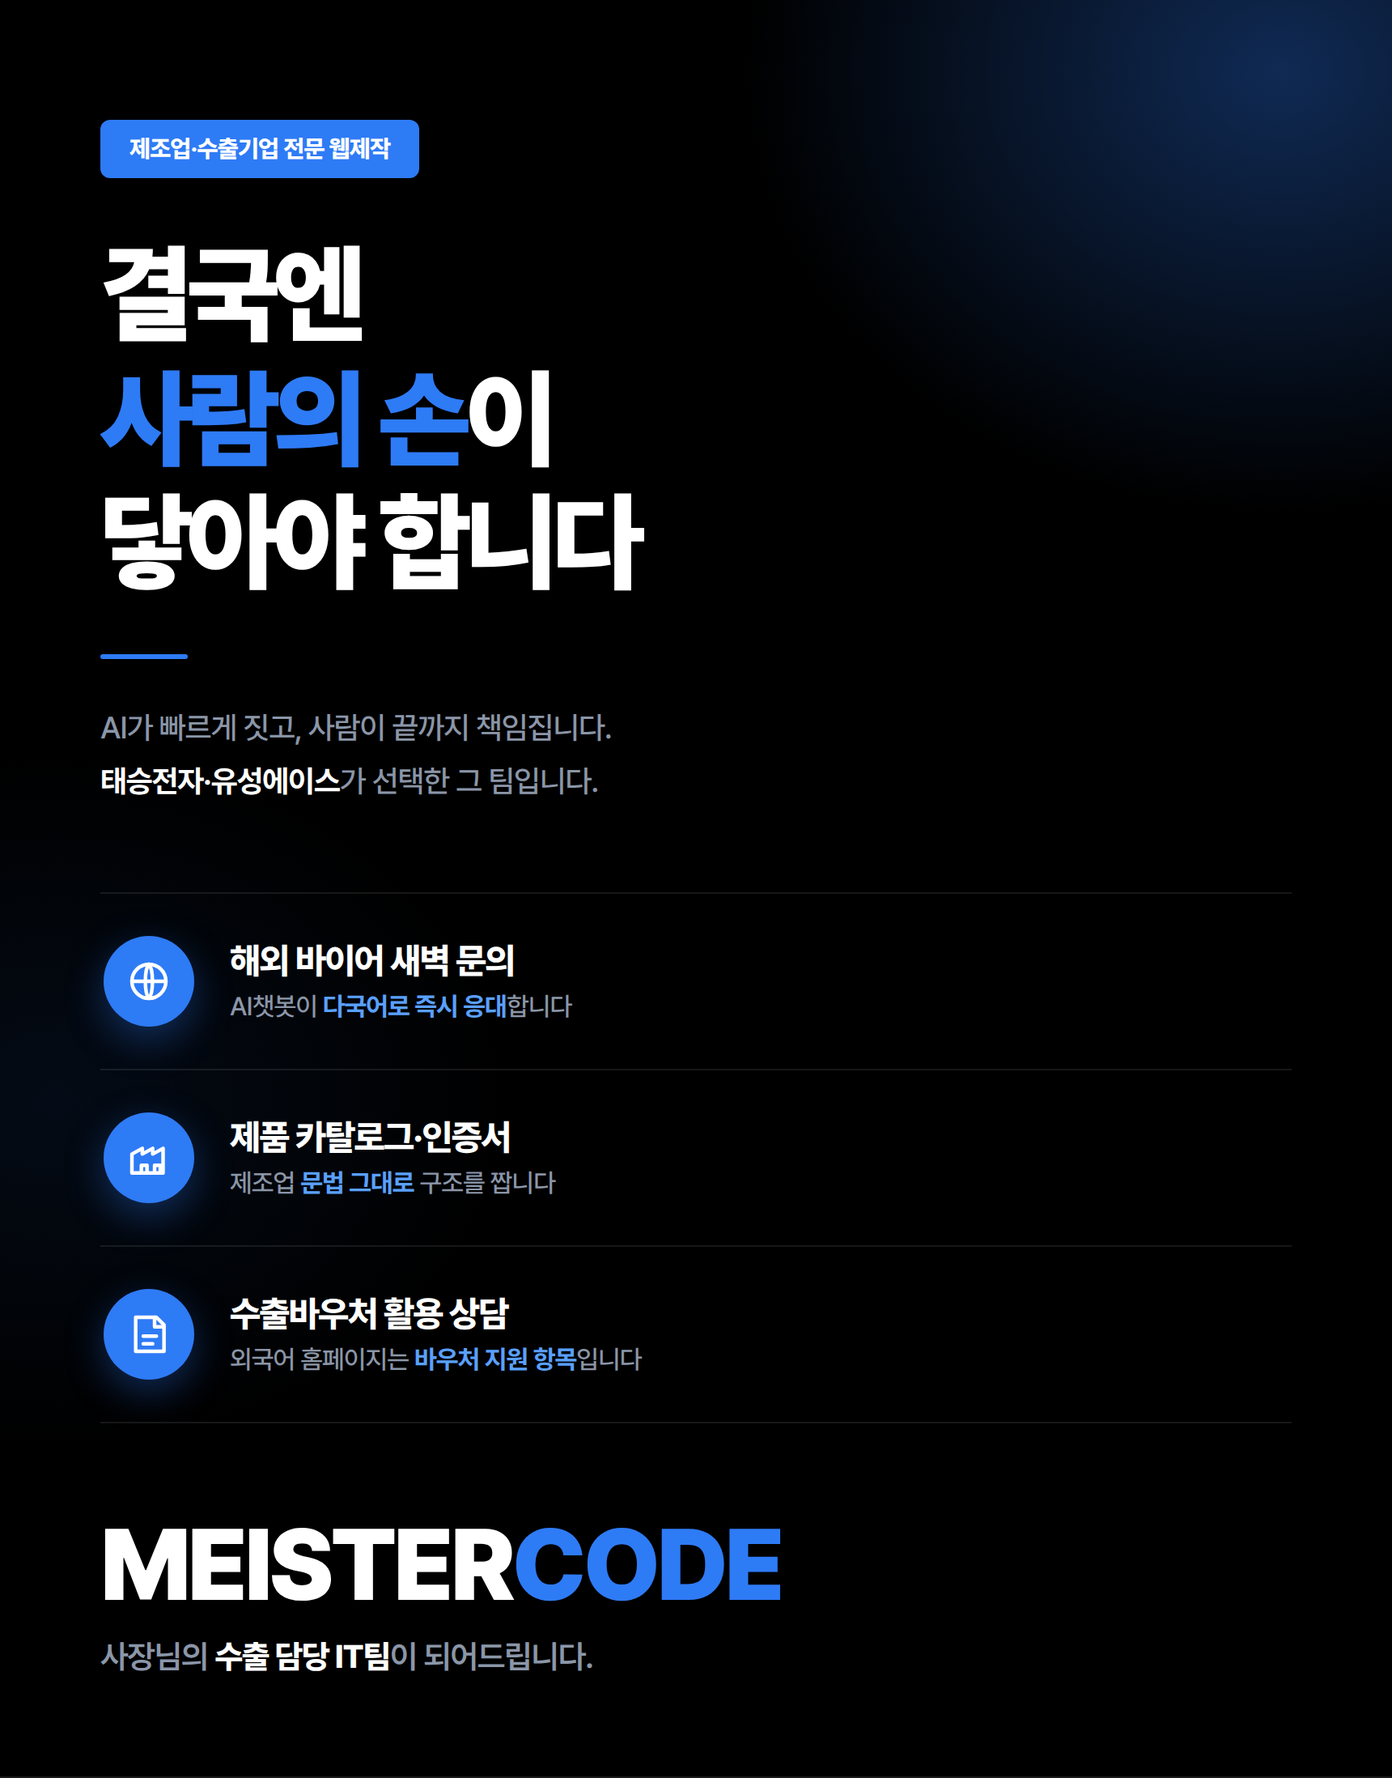
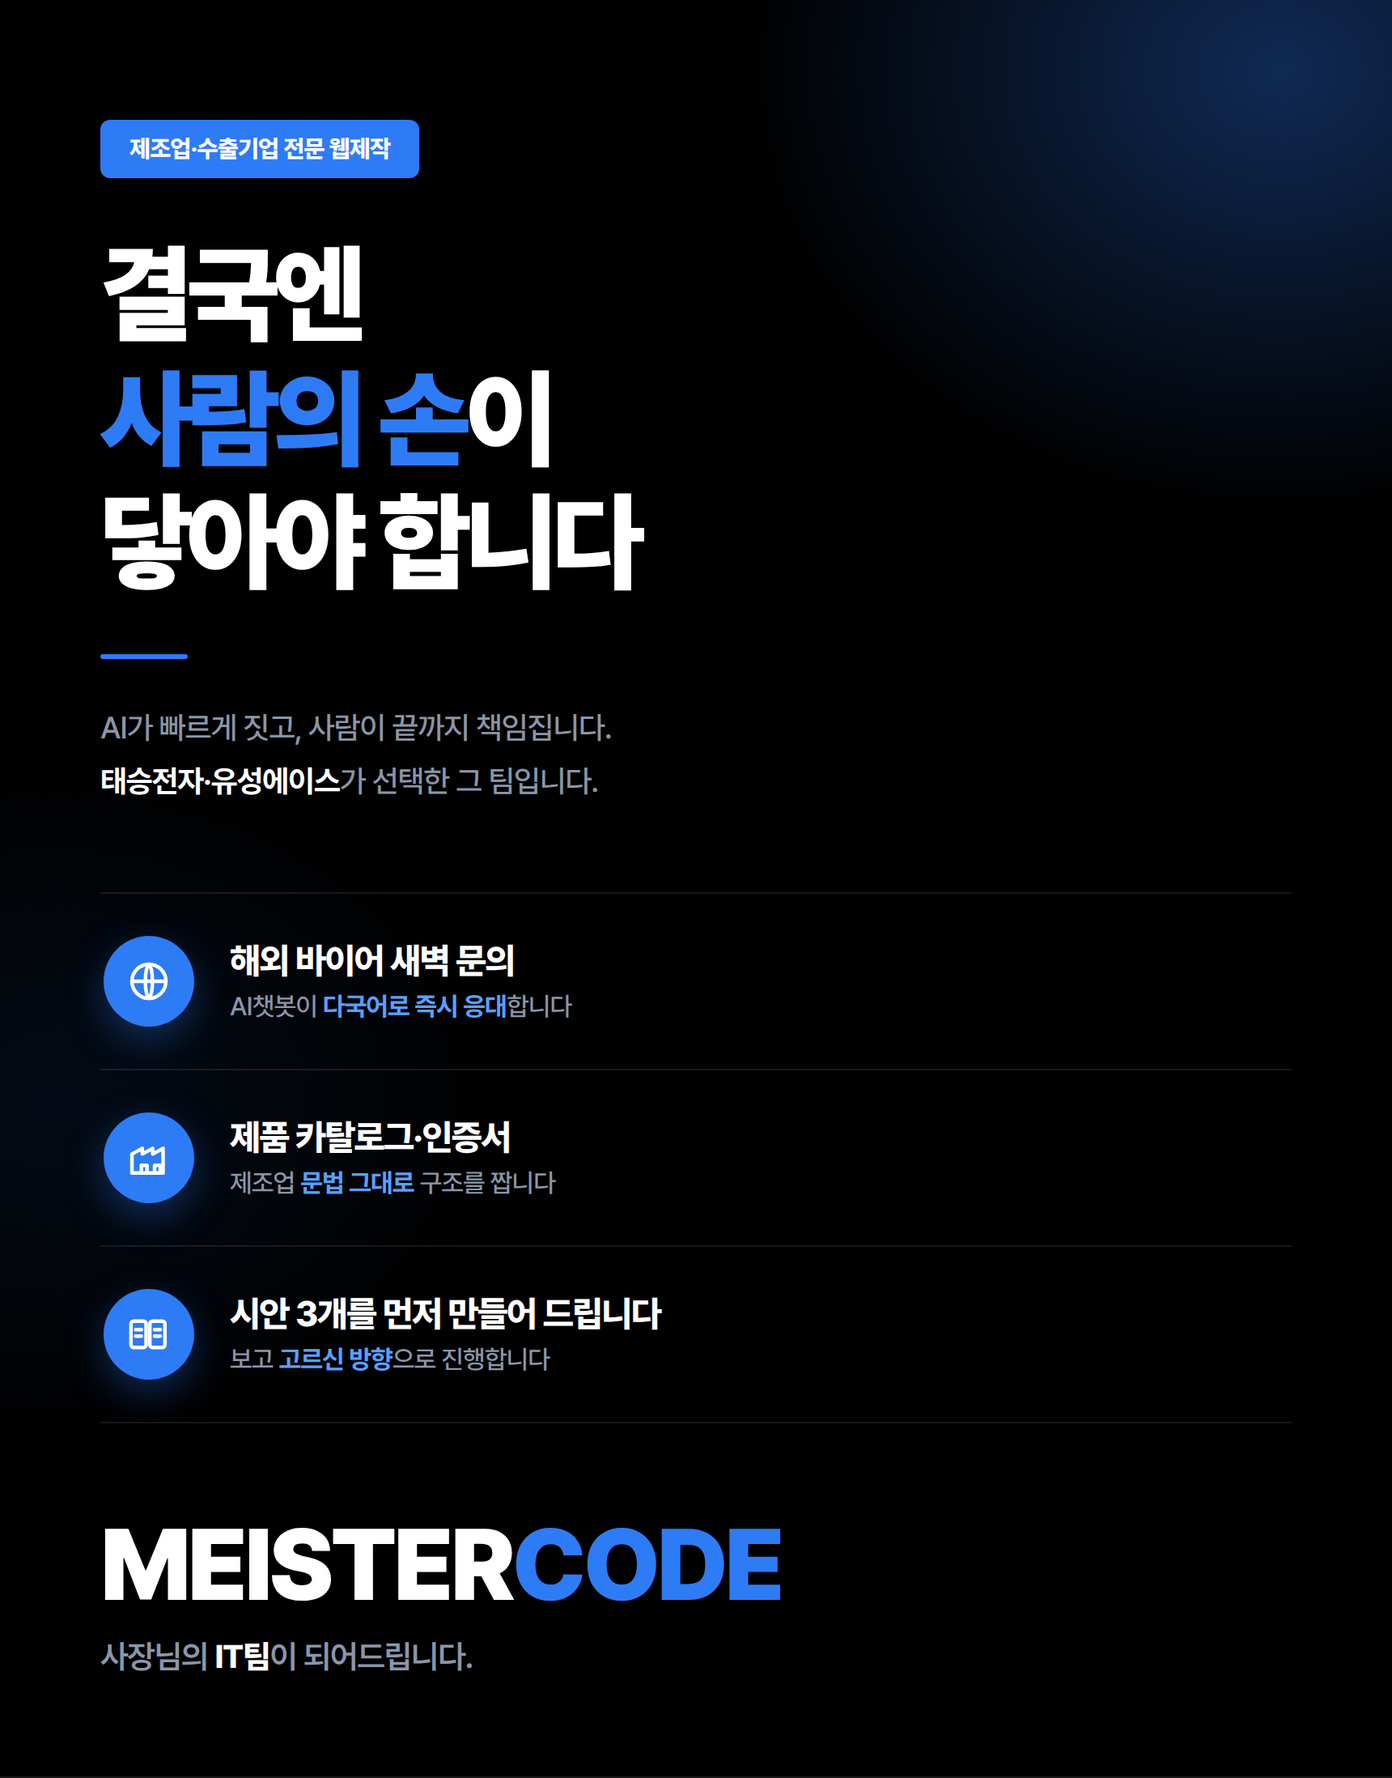
전략 재정립: 수출바우처 폐기, 시안 3개 선택제로 포지셔닝 전환
1인 운영이라는 제약과 실제 운영 방식(문의 → 시안 3개 → 선택 후 진행)에
맞춰 전략과 에셋을 다시 잡았다.

폐기
- 04-수출기업신뢰 에셋 전체 삭제. 바우처 신청 경험도 대상 기업도 아닌
  상태에서 "지원금 규모와 신청 방법 안내"는 지킬 수 없는 약속이자 허위 표기
- 히어로의 "수출바우처 활용 상담" 항목 제거
- 닫는 문구 "수출 담당 IT팀" → "IT팀" (자문처럼 읽히는 표현 제거)

전환
- 히어로 3번째 항목을 "시안 3개를 먼저 만들어 드립니다"로 교체
- 전략 문서를 1인 운영 기준으로 재작성: 구매 불안 해소를 핵심 차별점으로,
  동시 3팀 제한/수정 2회/응대 시간 명시를 방어선으로 정리

미결: 썸네일 후킹 카피(기존 확정안 vs 시안 3개) 선택 필요

Claude-Session: https://claude.ai/code/session_01Qa8u8H65t3zHqY3BJueAkU

Changed region(s): [[0.1541, 0.7122, 0.493, 0.7741], [0.1541, 0.898, 0.4006, 0.9599], [0.0924, 0.7432, 0.1233, 0.7741]]

diff --git a/크몽/02-히어로.html b/크몽/02-히어로.html
@@ -84,19 +84,20 @@ h1{font-size:66px;font-weight:900;line-height:1.16;letter-spacing:-.052em;color:
       <div class="row">
         <span class="ico">
           <svg viewBox="0 0 24 24">
-            <path d="M5 3h11l4 4v14H5z"/><path d="M15 3v5h5"/>
-            <path d="M9 13h7M9 17h5"/></svg>
+            <rect x="2.5" y="5" width="8" height="14" rx="1.5"/>
+            <rect x="12.5" y="5" width="8" height="14" rx="1.5"/>
+            <path d="M15 9.5h3M15 13h3"/><path d="M5 9.5h3M5 13h3"/></svg>
         </span>
         <div>
-          <p class="row__t">수출바우처 활용 상담</p>
-          <p class="row__d">외국어 홈페이지는 <b>바우처 지원 항목</b>입니다</p>
+          <p class="row__t">시안 3개를 먼저 만들어 드립니다</p>
+          <p class="row__d">보고 <b>고르신 방향</b>으로 진행합니다</p>
         </div>
       </div>
     </div>
 
     <div class="sign">
       <p class="sign__mark">MEISTER<span>CODE</span></p>
-      <p class="sign__t">사장님의 <b>수출 담당 IT팀</b>이 되어드립니다.</p>
+      <p class="sign__t">사장님의 <b>IT팀</b>이 되어드립니다.</p>
     </div>
 
   </div>

diff --git a/크몽/render.js b/크몽/render.js
@@ -17,7 +17,6 @@ const TARGETS = [
   { file: "01-썸네일.html",      out: "01-썸네일-652x488.png",     width: 652,  scale: 1 },
   { file: "02-히어로.html",      out: "02-히어로-860w.png",        width: 900,  scale: 2 },
   { file: "03-가격표.html",      out: "03-가격표-860w.png",        width: 900,  scale: 2 },
-  { file: "04-수출기업신뢰.html", out: "04-수출기업신뢰-860w.png",  width: 900,  scale: 2 },
 ];
 
 (async () => {

diff --git a/기획/크몽-진입전략.md b/기획/크몽-진입전략.md
@@ -1,105 +1,141 @@
 # 크몽 진입 전략 — MEISTERCODE
 
-> 디자인브리프(마이스터코드 크몽 런칭) 반영본.
-> 브리프의 **확정 가격·확정 포지셔닝은 전제**로 두고, 그 선택이 왜 옳은지와 남은 리스크만 다룬다.
+> **전제: 1인 운영.** 지킬 수 없는 약속은 전부 뺀다.
+> 이 문서의 판단 기준은 "멋있는가"가 아니라 **"혼자서 감당되는가"** 하나다.
 
 ---
 
-## 1. 브리프의 핵심 판단은 옳다
+## 1. 우리가 파는 것 — 다시 정의
 
-> "범용 웹제작 14,299개와 경쟁하지 않는다. 제조업·수출 키워드로 검색·스캔하는 사람만 정확히 낚는다."
+기존 브리프는 *"제조업·수출기업 전문 웹제작"* 을 전면에 세웠다.
+하지만 실제 운영 방식은 이것이다:
 
-이게 이 전략의 전부이고, 맞는 판단이다. 근거:
+> **문의가 오면 웹사이트 시안 3개를 만들어 드리고, 고르신 방향으로 진행한다.**
 
-크몽 홈페이지 제작 카테고리는 평균 견적 80만원선에 웹빌더 서브카테고리만 1,110개 이상이 등록돼 있다.
-랭킹은 리뷰 수·평점·주문성공률·응답률로 결정되므로 **신규 판매자는 리뷰 0 → 하위 노출 → 주문 0의 데드락**에 갇힌다.
-범용 키워드로 붙으면 노출 자체가 안 된다.
+이게 상품의 실체이고, **이걸 전면에 세워야 한다.**
 
-니치를 좁히면 검색량은 줄지만 **경쟁자 수가 훨씬 빠르게 줄어든다.**
-"제조업 홈페이지", "수출기업 홈페이지", "영문 홈페이지 제작"으로 들어오는 사람은 의도가 명확하고 단가 저항이 낮다.
+### 왜 이게 크몽에서 이기는가
+
+크몽에서 홈페이지를 사는 사람의 최대 불안은 가격이 아니다.
+
+> *"돈부터 냈는데 결과물이 마음에 안 들면 어떡하지."*
+
+경쟁자 대부분의 진행 방식은 **계약 → 기획 → 시안 1개 → 수정 N회 제한**이다.
+의뢰인은 돈을 낸 뒤에야 처음 결과물을 본다. 마음에 안 들면 제한된 수정 횟수 안에서 싸워야 한다.
+
+**"시안 3개를 먼저 보여드립니다"** 는 이 불안을 정면으로 없앤다.
+그리고 이건 말장난이 아니라 **우리만 할 수 있는 구조**다 — AI로 빠르게 3안을 뽑을 수 있기 때문에.
+
+브리프의 키 카피와도 정확히 맞물린다:
+
+> AI가 빠르게 짓고 (→ 시안 3개), 사람이 끝까지 책임집니다 (→ 고른 뒤부터 손으로)
+
+### 1인 운영에 최적인 이유
+
+고객이 방향을 고른 **뒤부터** 진짜 작업이 들어간다.
+헛수고가 최소화되고, 수정 논쟁이 앞단에서 끝난다. 혼자 돌릴 수 있는 유일한 구조다.
 
 ---
 
-## 2. 0.5초 싸움에서 실제로 작동하는 무기
+## 2. 빼는 것
 
-브리프의 관찰 — *"크몽 웹제작 카테고리는 전부 화이트+파랑 밝은 톤이므로, 다크 네이비가 검색결과에서 유일하게 튄다"* — 이건 전략이 아니라 **물리적 사실**이고, 가장 저렴한 차별화다.
+### ① 수출바우처 — 전부 삭제 (완료)
 
-썸네일 검수 결과: 300px(데스크톱 검색결과 카드 크기)에서 배지·헤드카피·골드 가격이 모두 판독된다.
-180px까지 줄이면 배지가 빠듯해지지만, 골드 가격 덩어리는 끝까지 살아남는다.
-**축소 노출에서 마지막까지 남는 건 색 대비와 골드 숫자다.** 이 두 개를 지키는 선에서만 요소를 추가할 것.
+우리는 바우처를 신청해 본 적도, 대상 기업도 아니다.
+*"지원금 규모와 신청 방법까지 안내해 드립니다"* 는 **지킬 수 없는 약속이고 허위 표기**다.
+
+- `04-수출기업신뢰` 에셋 **폐기 완료**
+- 히어로의 "수출바우처 활용 상담" 항목 → **"시안 3개 먼저"로 교체 완료**
+
+문의가 들어와서 바우처를 물으면 답을 못 한다. 그 순간 신뢰가 무너지고 저평점이 된다.
+**나중에 실제로 경험이 쌓이면 그때 넣는다.**
+
+### ② "제조업·수출기업 전문" — 수위 조정
+
+제조업 타겟팅 자체는 유지할 만하다(태승전자·유성에이스 실적이 근거).
+다만 바우처를 뺀 이상 **"수출 전문가"로 보이게 하는 표현은 위험**하다.
+
+- ✅ 유지: 해외 바이어 다국어 AI챗봇 — 이건 **제품 기능**이라 증명 가능
+- ✅ 유지: 제품 카탈로그·인증서 구조 — 제조업 사이트의 실제 요구사항
+- ❌ 제거: 수출 제도·정부지원 관련 **자문처럼 읽히는 모든 문구**
+
+### ③ 못 지킬 약속
+
+혼자라서 못 하는 것들이다. 브리프도 이미 일부는 금지하고 있다.
+
+| 쓰지 말 것 | 이유 |
+|---|---|
+| 무제한 수정 | 1인 운영에서 파산 조항 |
+| 24시간 즉시 대응 | **AI챗봇이 24시간**인 것이지 사람이 아니다. 반드시 구분 표기 |
+| 영구 무료 호스팅 | 라이선스 리스크 (브리프 금지). 기존 `7.jpg` 비교표에도 남아 있어 **함께 수정 필요** |
 
 ---
 
-## 3. 경쟁자가 구조적으로 못 따라오는 지점
+## 3. 1인 운영 방어선
 
-상위 판매자 다수가 임대형 빌더(아임웹·윅스·카페24) 또는 워드프레스 기반이다. 여기서 세 가지 약점이 나오고,
-브리프의 **전 패키지 공통 사양**이 정확히 그 셋을 때린다.
+이걸 안 걸어두면 주문이 몰리는 순간 납기가 깨지고, 크몽에서 납기 미준수는 **랭킹 직격**이다.
 
-| 경쟁자 약점 | 왜 못 따라오나 | 우리 공통 사양 |
+| 장치 | 표기 문구 | 효과 |
 |---|---|---|
-| 영구 월 유지비 (월 3~5만원, 5년이면 제작비 초과) | 빌더 사업모델 자체가 구독료다 | **호스팅 관리 포함** |
-| 납품 후 클라이언트가 손을 못 댐 → 저평점의 최대 원인 | 유지보수 계약이 수익원이라 일부러 안 열어준다 | **관리자 CMS + 소스코드 100% 인도** |
-| 다국어·챗봇은 상위 요금제나 유료 플러그인 | 플러그인 마진이 수익 구조 | **AI챗봇 24시간 + 외국어 1개 기본** |
+| **동시 진행 제한** | "품질 유지를 위해 동시 진행 3팀까지" | 희소성 + 품질 신호 + **자기 보호** 세 개를 동시에 |
+| **수정 횟수 명시** | "시안 선택 후 수정 2회" | 무한 수정 차단 |
+| **납기 보수적으로** | 원페이지 3~5일은 지킬 수 있을 때만 | 작업일 준수율이 랭킹 지표 |
+| **응대 시간 명시** | "챗봇 24시간 / 상담 답변 평일 10-18시" | 오해로 인한 분쟁 차단 |
 
-특히 **소스코드 100% 인도**는 경쟁자가 따라 하기 가장 어렵다.
-기술적으로 어려워서가 아니라 **그들의 수익 모델을 깨기 때문**이다. 이걸 전면에 세우는 게 맞다.
-
----
-
-## 4. 크몽 운영 실무
-
-- **초기 3개월 CPC 광고 집행** — 리뷰 0 상태에서 노출을 얻는 사실상 유일한 경로
-- **키워드는 조합형으로** — `제조업 홈페이지 제작`, `수출기업 영문 홈페이지`, `AI챗봇 홈페이지`, `다국어 홈페이지 제작`
-- **응답률·작업일 준수율이 랭킹 지표** — 원페이지 3~5일 납기는 반드시 지킬 것. 못 지킬 납기를 걸면 랭킹이 깎인다
-- **상세페이지 자체가 포트폴리오** — 홈페이지를 만들어 파는 사람의 상세페이지가 허술하면 그 자체가 실력의 반증이다
-- ⚠ **외부 링크·연락처 노출 규정 확인 필요** — 크몽은 외부 거래 유도를 제재한다.
-  라이브 데모는 이미지로 상세페이지에 넣고 실제 URL은 크몽 메시지로 전달하는 편이 안전. **판매 이용약관 원문 확인 요망**
+> **"선착순 10팀"은 할인 총량**이지 동시 처리량이 아니다.
+> 10팀이 한꺼번에 들어오면 혼자 감당 못 한다. **동시 3팀 제한을 반드시 같이 걸 것.**
 
 ---
 
-## 5. 리스크 — 지금 확인해야 할 것
+## 4. 에셋 구성 — 3장으로 줄인다
 
-### ① 실적 표기의 근거
-히어로에 **"태승전자·유성에이스가 선택한 그 팀"**, 신뢰 섹션에 **특허 출원 4건 · 고려대 연구기관 MOU**를 넣었다.
-크몽은 허위·과장 실적 표기를 제재하고, B2B 의뢰인은 이런 걸 실제로 확인한다.
-**고객사명 노출 동의**와 **특허·MOU 증빙**을 문서로 확보해 둘 것. 이건 디자인 문제가 아니라 계정 리스크다.
+브리프는 4장이었지만 04번(수출바우처)이 폐기됐고, 혼자 관리하려면 적을수록 좋다.
 
-### ② "1인 운영"과 약속의 크기
-브리프가 "무제한 수정"·"24시간 즉시 대응"을 금지한 건 정확한 판단이다.
-다만 **AI챗봇 24시간**은 제품 기능이라 괜찮지만, 의뢰인이 "24시간 = 사람이 24시간 응대"로 오해할 여지가 있다.
-상세페이지 어딘가에 *"챗봇이 24시간, 사람은 영업시간"* 을 한 줄 명시해 두는 게 분쟁을 막는다.
+| # | 에셋 | 핵심 메시지 | 상태 |
+|---|---|---|---|
+| 01 | 썸네일 652×488 | **후킹 — 아래 5절 참고** | 카피 재검토 필요 |
+| 02 | 히어로 860w | 결국엔 사람의 손이 닿아야 합니다 + 3가지 (시안3개 포함) | 수정 완료 |
+| 03 | 가격표 860w | 옵션으로 안 팝니다, 전부 기본입니다 | 유지 |
 
-### ③ 가격 인상 시점
-29/59/99만은 "선착순 10팀 런칭특가"다. **10팀을 채운 뒤 실제로 올릴 것.**
-특가를 상시로 끌면 정가(45/89/150만)가 허위 표기가 되고, 크몽에서 이건 제재 사유다.
+브리프 ③의 "그대로 재사용" 지정 섹션들(새벽 3시 AI챗봇, 소스코드 인도, WordPress 비교,
+CMS, 5단계 프로세스, 포트폴리오)은 그대로 쓴다. **다만 `7.jpg`의 "영구 무료" 한 곳은 고쳐야 한다.**
 
-### ④ 호스팅 문구
-브리프대로 "영구 무료"는 쓰지 않았다. 다만 **"호스팅 관리 포함"이 몇 년치인지**는 반드시 명시할 것.
-기간을 안 적으면 의뢰인은 영구로 읽고, 나중에 청구하면 저평점으로 돌아온다.
+---
+
+## 5. 결정 필요 — 썸네일 후킹
+
+지금 썸네일 헤드카피는 브리프 확정안이다:
+
+> **"해외 바이어 문의, 새벽에도 AI가 응대합니다"**
+
+하지만 새 포지셔닝을 따르면 더 강한 후킹이 있다:
+
+> **"시안 3개 먼저 보고 고르세요"**
+
+| | 해외 바이어 AI응대 | 시안 3개 먼저 |
+|---|---|---|
+| 겨냥하는 것 | 제조업·수출 니치 (검색량 작음, 경쟁 적음) | **구매 불안** (전 카테고리 공통, 경쟁 많음) |
+| 차별화 | 기능 차별화 | **구조 차별화** — 따라 하기 더 어렵다 |
+| 리스크 | 니치가 너무 좁을 수 있음 | 범용 키워드라 노출 경쟁 심함 |
+
+**추천: 둘을 합친다.** 배지로 타겟을 좁히고, 헤드로 불안을 때린다.
+
+```
+[배지] 제조업·수출기업 전문
+[헤드] 시안 3개 먼저 보고
+       고르세요
+[서브] AI챗봇·다국어·CMS 전부 기본 포함
+[가격] 45만원 → 런칭특가 29만원~
+```
+
+니치 타겟팅은 유지하면서, 0.5초 안에 꽂히는 문장은 불안 해소로 바꾸는 구성이다.
 
 ---
 
 ## 6. 다음 액션
 
-1. **기존 상세페이지 이미지의 "영구 무료" 문구 수정** — 원본 파일 필요 (브리프 완료 기준 미달 항목)
-2. 고객사명 노출 동의서 · 특허 출원 번호 · MOU 증빙 확보
-3. "호스팅 관리 포함" 기간 확정 후 가격표 이미지에 반영
-4. 크몽 판매 이용약관에서 외부 링크 규정 확인
-5. CPC 광고 키워드 세팅
-
----
-
-## 부록 — MAISON MEISTER 데모의 위치
-
-이 저장소의 `docs/` 는 주얼리 하우스 시안(정적 사이트 + Apps Script/구글시트 백오피스)이다.
-**크몽 주력 상품과는 다른 트랙**이고, 포트폴리오로 쓰려면 아래가 먼저 메워져야 한다.
-
-| 구멍 | 현재 상태 |
-|---|---|
-| 모바일 대응 | `docs/css/style.css` 미디어쿼리가 **960px 하나뿐** |
-| 라이브 데모 | `docs/js/config.js` 의 `API_URL`이 비어 있어 데모 모드 |
-| 이미지 | Unsplash 외부 링크 **22곳** 의존 |
-| 볼륨 | 페이지 3장 (index / salon / product) |
-
-다만 이 시안의 **구글시트 = 백오피스** 구조와 **자가설치 백엔드**(`Code.gs`가 시트·탭·헤더를 스스로 생성)는
-3절의 "납품 후 단절" 반박 논리를 실물로 증명하는 자산이다. 별도 상품으로 쓸 여지가 있다.
+1. **썸네일 후킹 결정** (5절) — 결정되면 즉시 반영
+2. `7.jpg` 등 기존 이미지의 **"영구 무료" 문구 수정** — 원본 파일 필요
+3. 상세페이지에 **동시 3팀 제한 · 수정 2회 · 응대 시간** 표기 추가
+4. 고객사명(태승전자·유성에이스) **노출 동의 확보** — 실적 표기는 증빙이 있어야 한다
+5. "호스팅 관리 포함" 이 **몇 년치인지** 확정 후 가격표에 명시

diff --git a/크몽/README.md b/크몽/README.md
@@ -30,7 +30,6 @@
 | `01-썸네일.html` | `out/01-썸네일-652x488.png` | 652×488 | 실행 프롬프트 ① |
 | `02-히어로.html` | `out/02-히어로-860w.png` | 860×1097 (@2x) | ② 이미지 A |
 | `03-가격표.html` | `out/03-가격표-860w.png` | 860×1626 (@2x) | ② 이미지 B |
-| `04-수출기업신뢰.html` | `out/04-수출기업신뢰-860w.png` | 860×1457 (@2x) | ③ 이미지 C |
 
 썸네일은 크몽 규격이 고정이라 **1배(652×488)**, 상세페이지 이미지는 고해상도 대응을 위해 **2배**로 출력합니다.
 
@@ -60,7 +59,14 @@ node render.js 03        # 가격표만 다시 렌더
   3D 렌더(서버랙·방패·클라우드)를 적극 씁니다. 현재 에셋은 타이포와 SVG만으로 구성돼 있어
   **히어로 우측에 여백이 남습니다.** 이미지 소스를 주시거나 생성 승인을 주시면 채웁니다.
 - **기존 이미지의 "영구 무료" 문구 수정** — 원본 파일이 없어 미반영.
-  참고로 기존 `7.jpg` 비교표의 호스팅비 항목에도 "영구 무료"가 들어가 있어 함께 손봐야 합니다.
+  기존 `7.jpg` 비교표의 호스팅비 항목에도 "영구 무료"가 들어가 있어 함께 손봐야 합니다.
+- **동시 3팀 제한 · 수정 2회 · 응대 시간** 표기 미반영 — 1인 운영 방어선. 문구 확정 후 추가.
+
+## 폐기된 것
+
+`04-수출기업신뢰` (수출바우처 섹션)는 **폐기**했습니다.
+바우처를 신청해 본 적도, 대상 기업도 아닌 상태에서 "지원금 규모와 신청 방법을 안내한다"는
+지킬 수 없는 약속이자 허위 표기입니다. 자세한 배경은 `기획/크몽-진입전략.md` 2절 참고.
 
 ## 검수 메모
 
